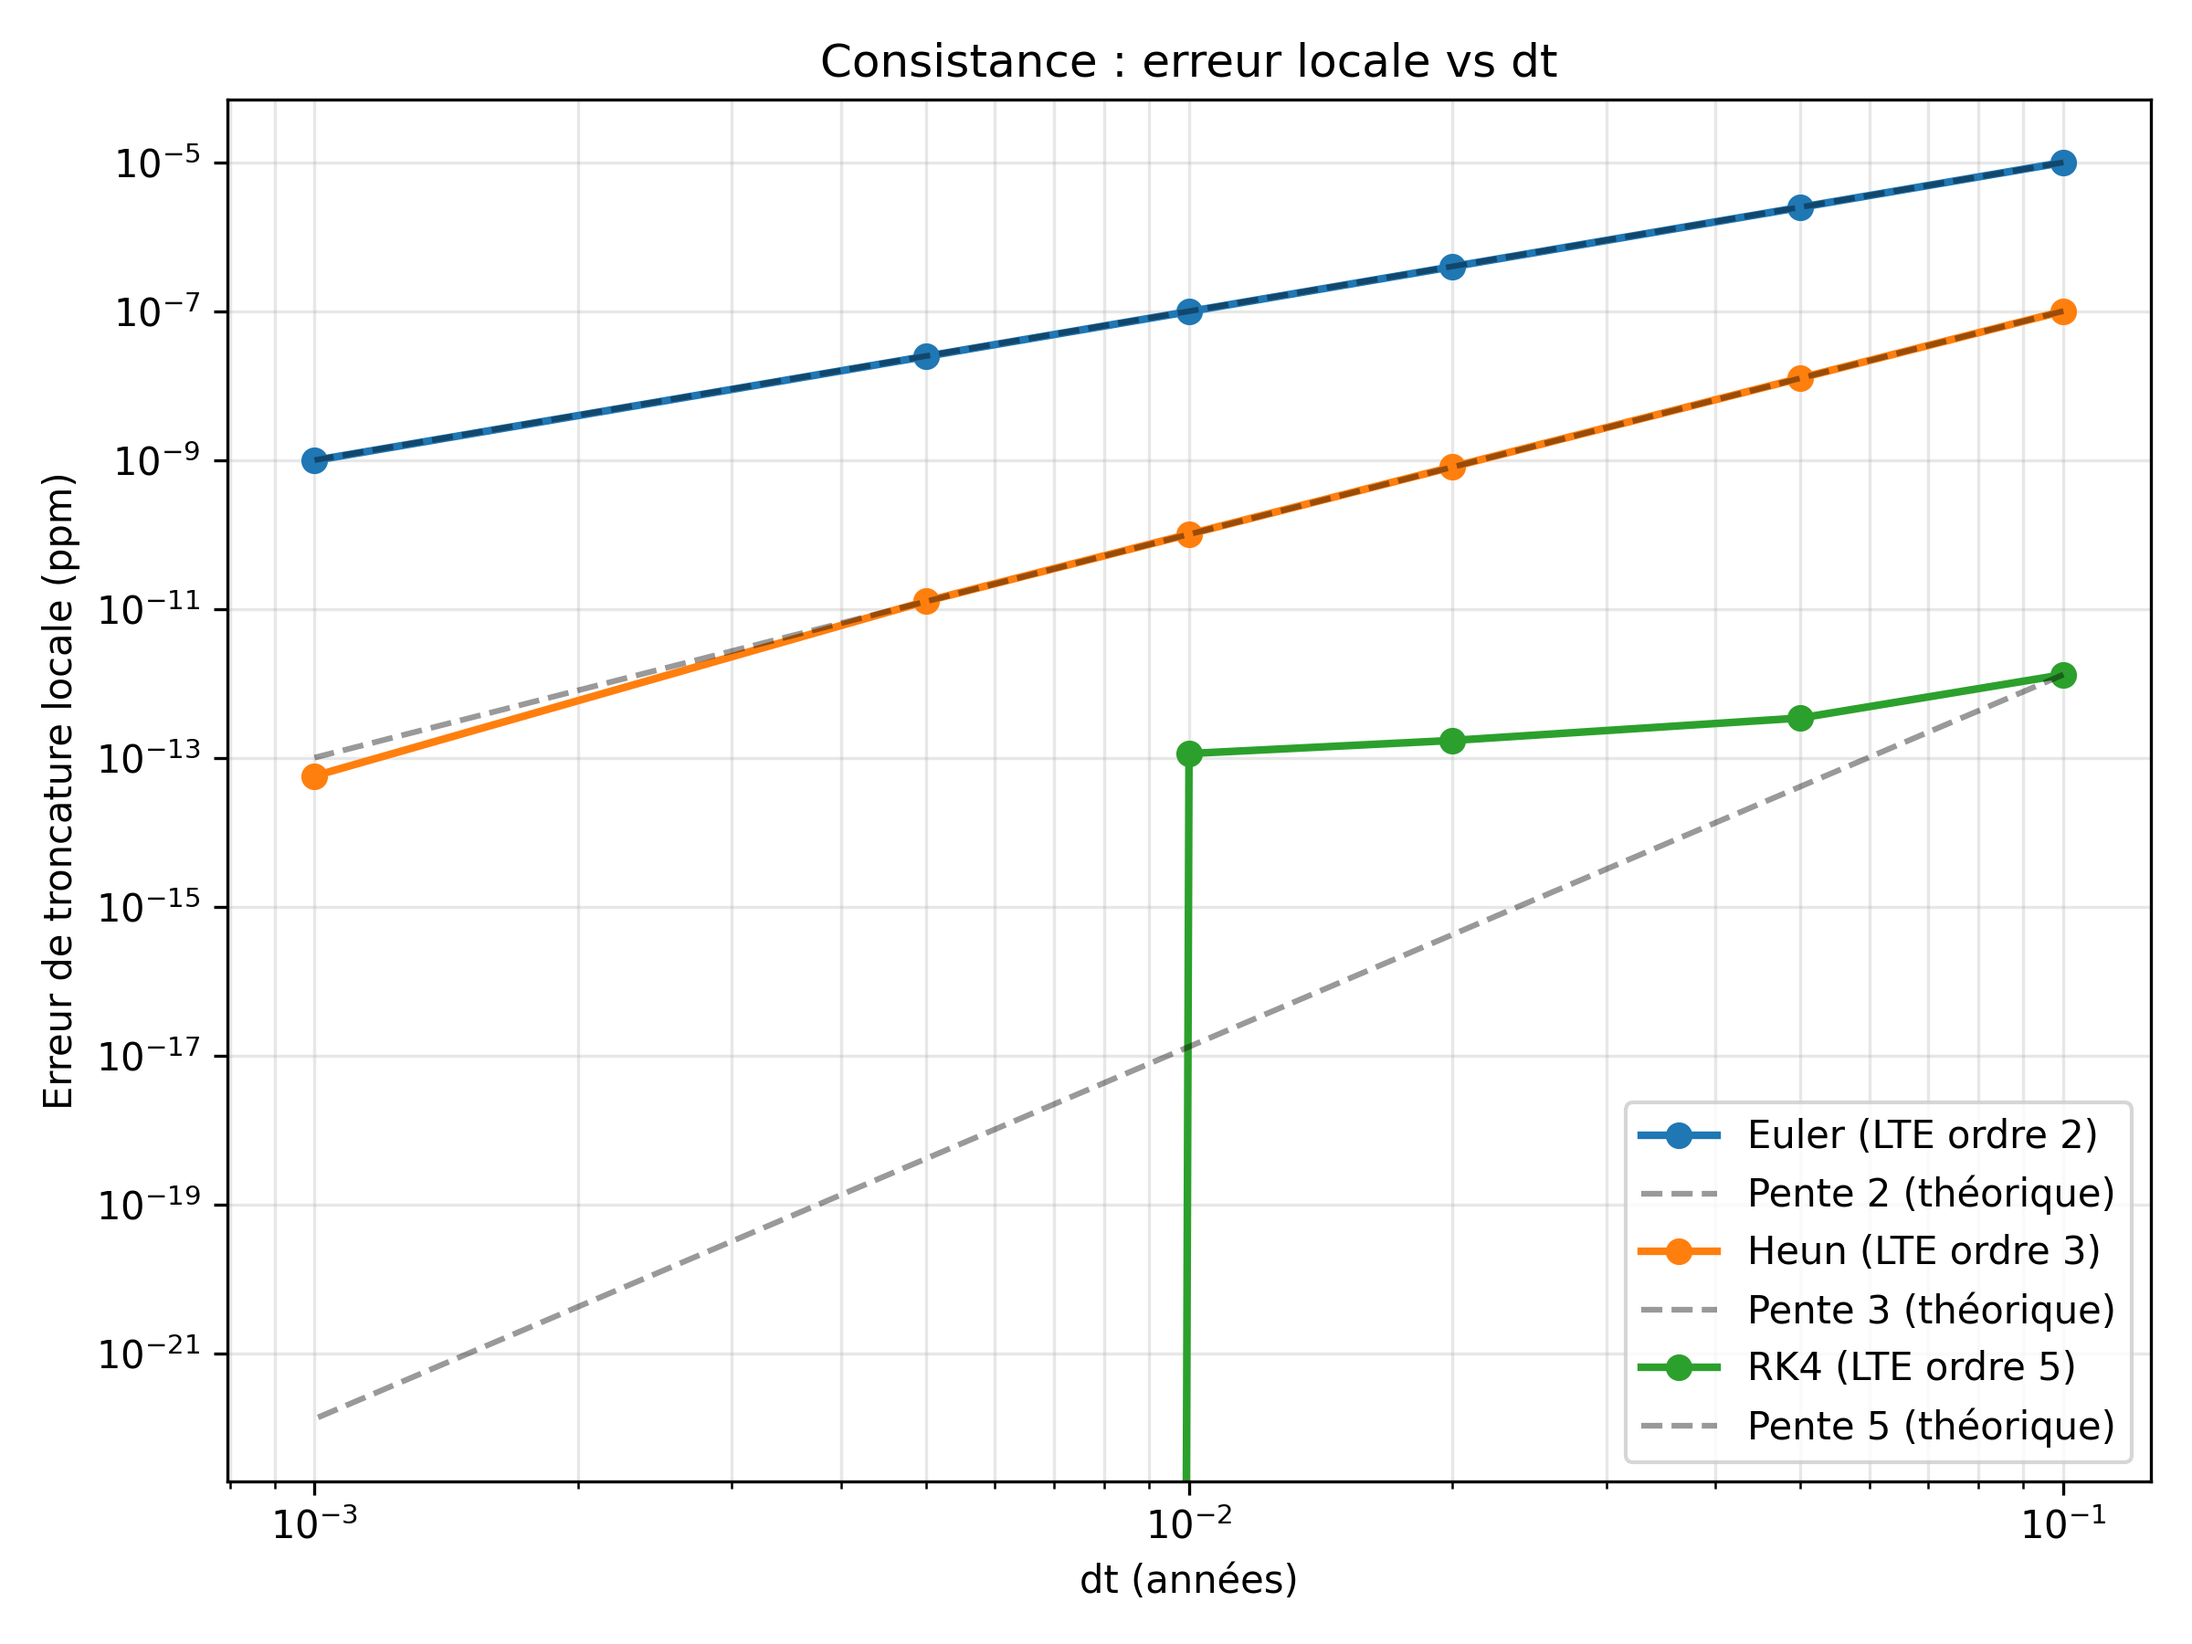
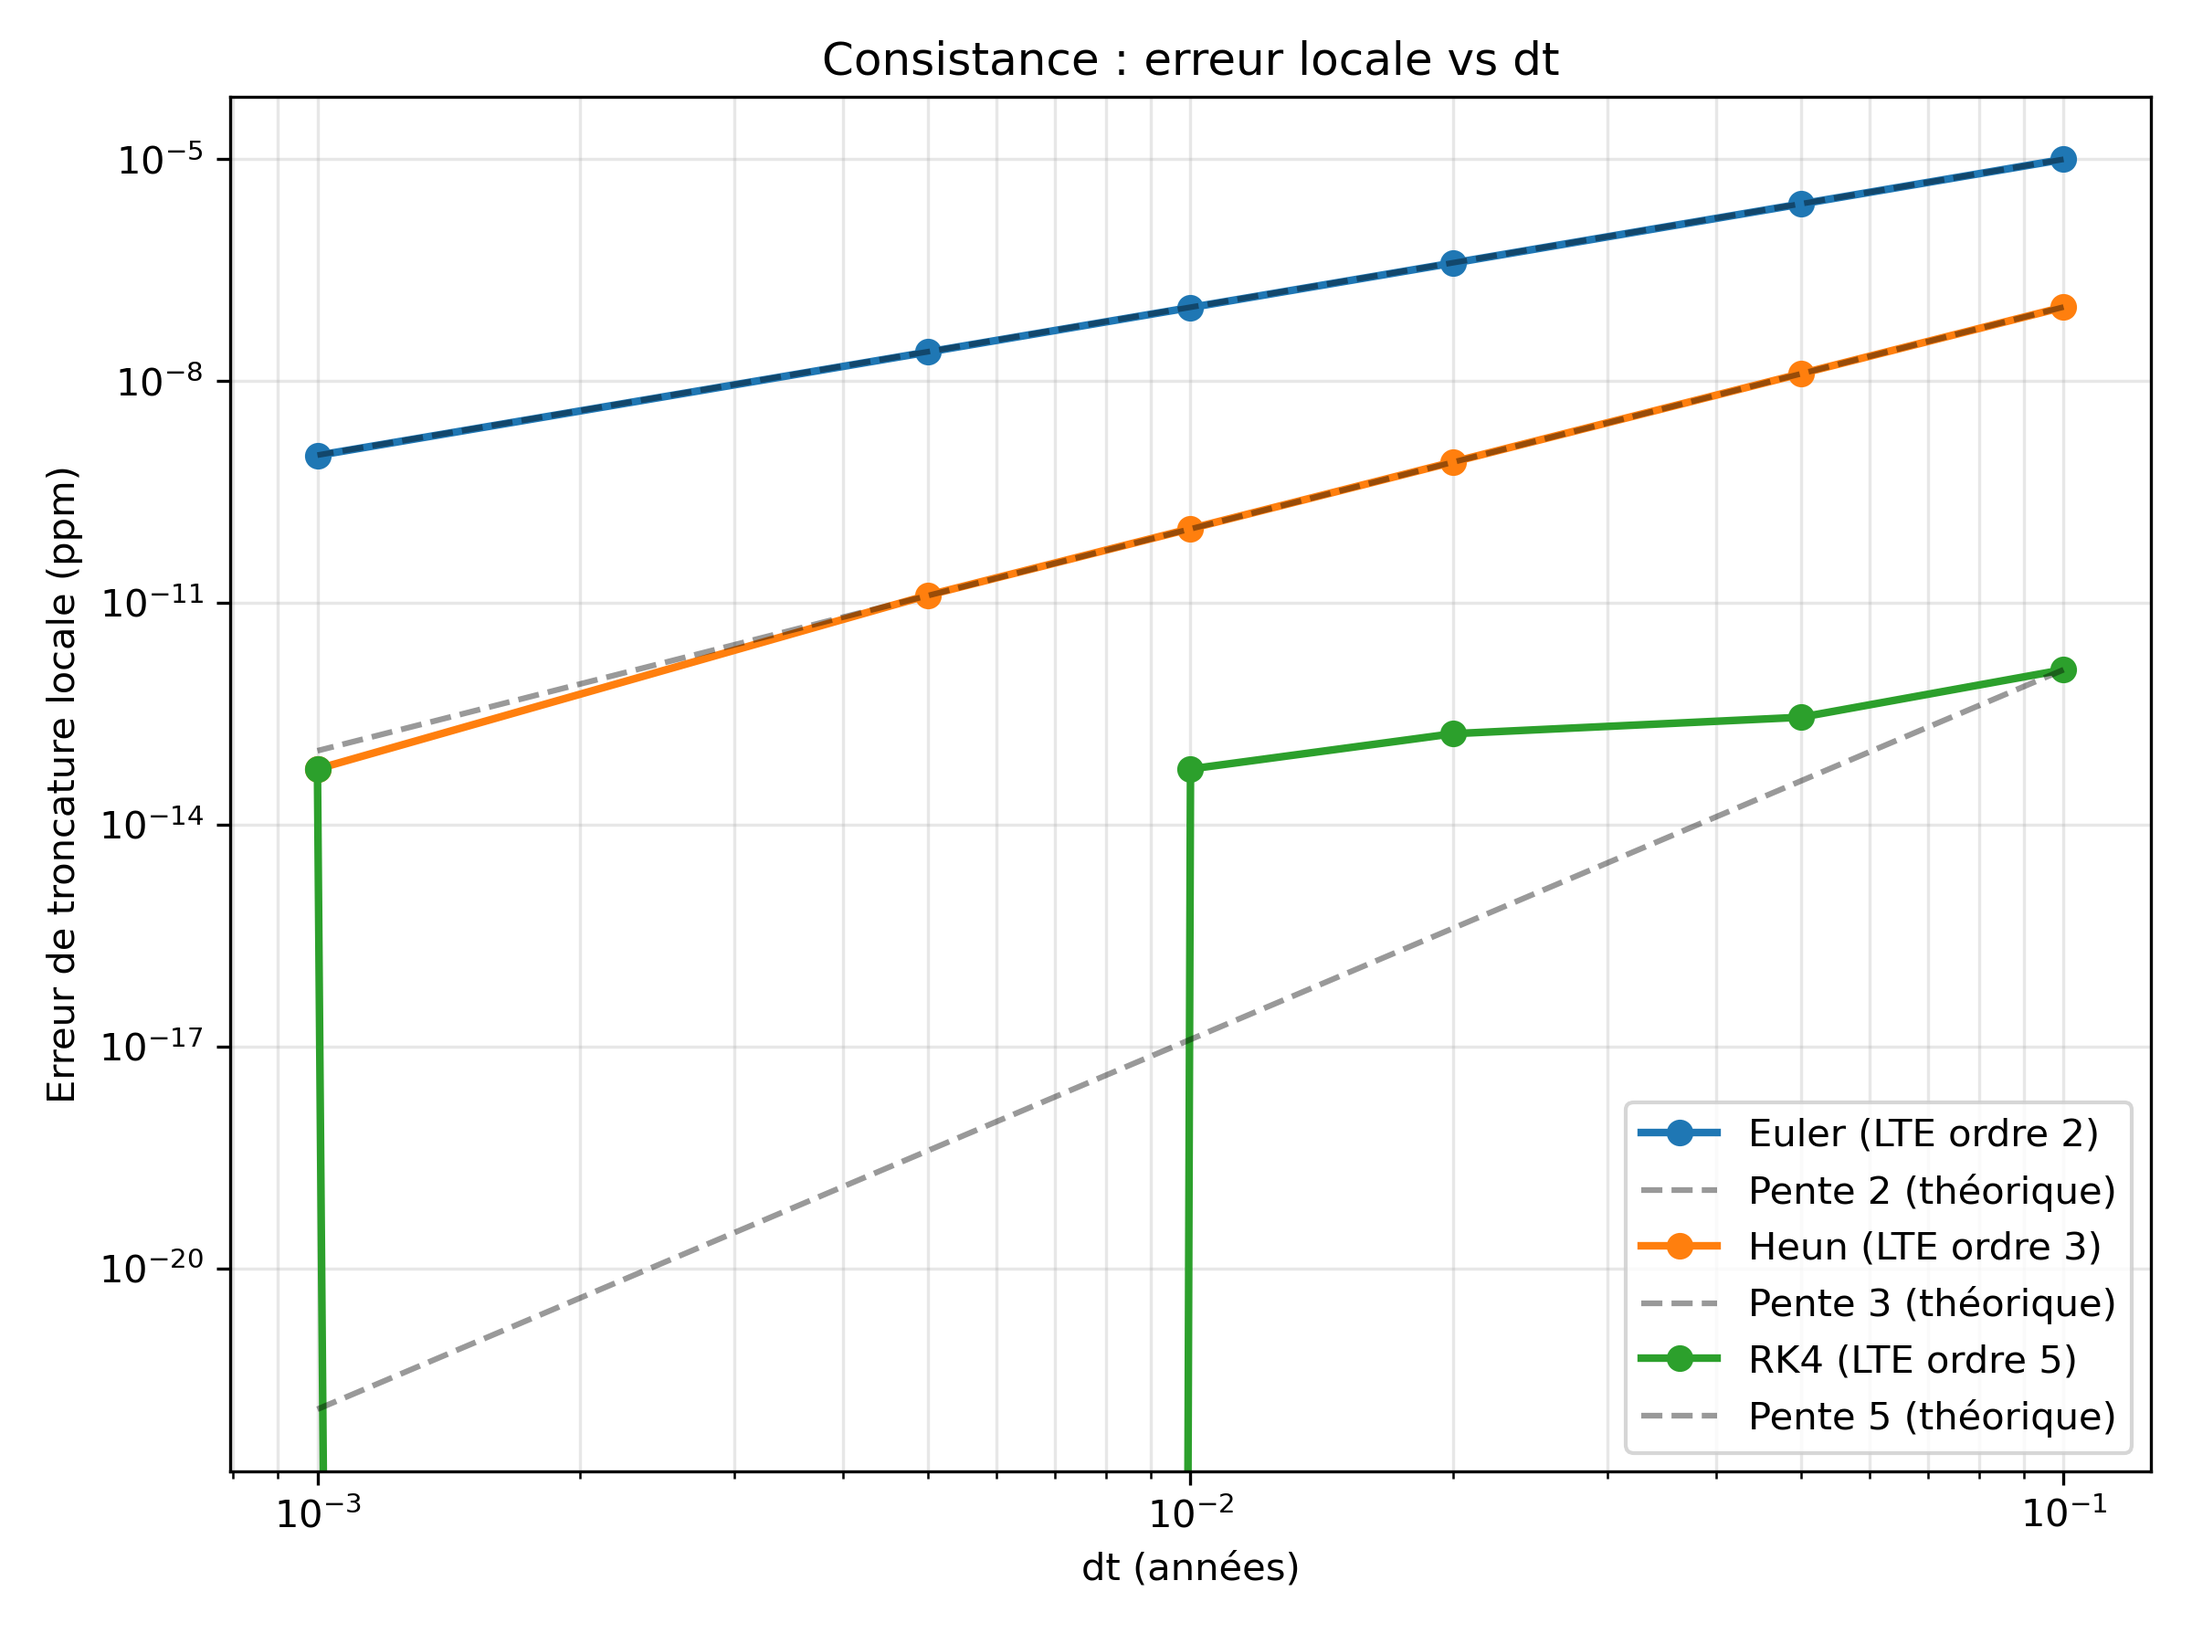
correction ordre rk

diff --git a/carbone_clean.py b/carbone_clean.py
@@ -486,7 +486,7 @@ def analyse_consistance():
     methods = {
         'Euler (LTE ordre 2)':  (_euler_step, 2),
         'Heun (LTE ordre 3)':   (_heun_step, 3),
-        'RK4 (LTE ordre 5)':    (_rk4_step, 5),
+        'RK4 (LTE ordre 4)':    (_rk4_step, 4),
     }
 
     plt.figure(figsize=(8, 6))
@@ -651,4 +651,4 @@ if __name__ == '__main__':
     verify_mass_conservation(times, results)
     analyse_convergence()
     analyse_consistance()
-    analyse_stability()
+    #analyse_stability()
